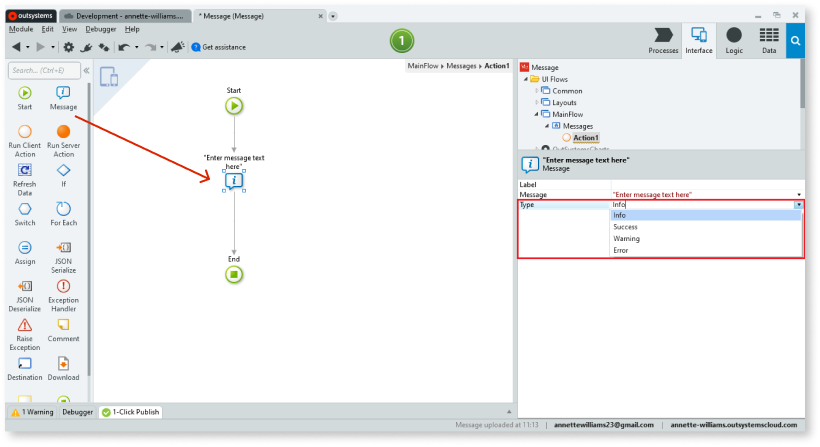
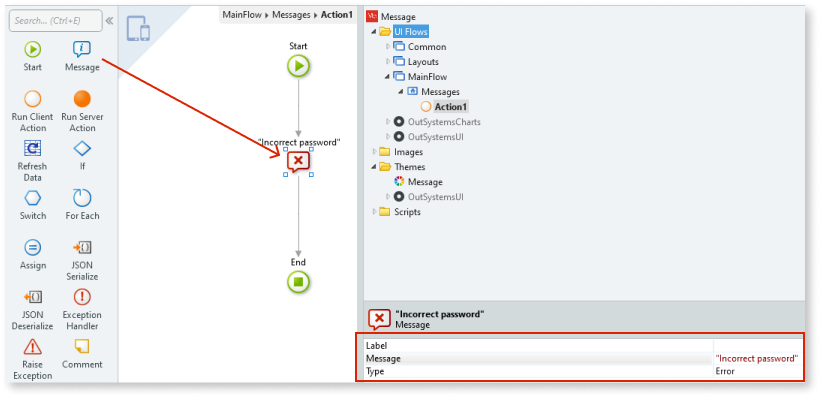
Added new images

diff --git a/src/ref/lang/auto/Class.Message.begin.md b/src/ref/lang/auto/Class.Message.begin.md
@@ -9,7 +9,11 @@ You can provide a feedback message to the end user by using the Message logic to
 1. Drag the Message logic tool onto the Client Action flow.
 1. Set the message **Label**, **Message**, and **Type** properties.
 
-![Drag message logic tool to client action flow](images/message-class-1-ss.png)
+    In this example, we enter ``Invalid password`` in the **Message** property (the message displayed to the user) and select **Error** as the message type.  
+
+    ![Drag message logic tool to client action flow](images/message-class-1-ss.png)
+
+    ![Invalid password message](images/message-class-6-ss.png)
 
 The available predefined message types are as follows:
 
